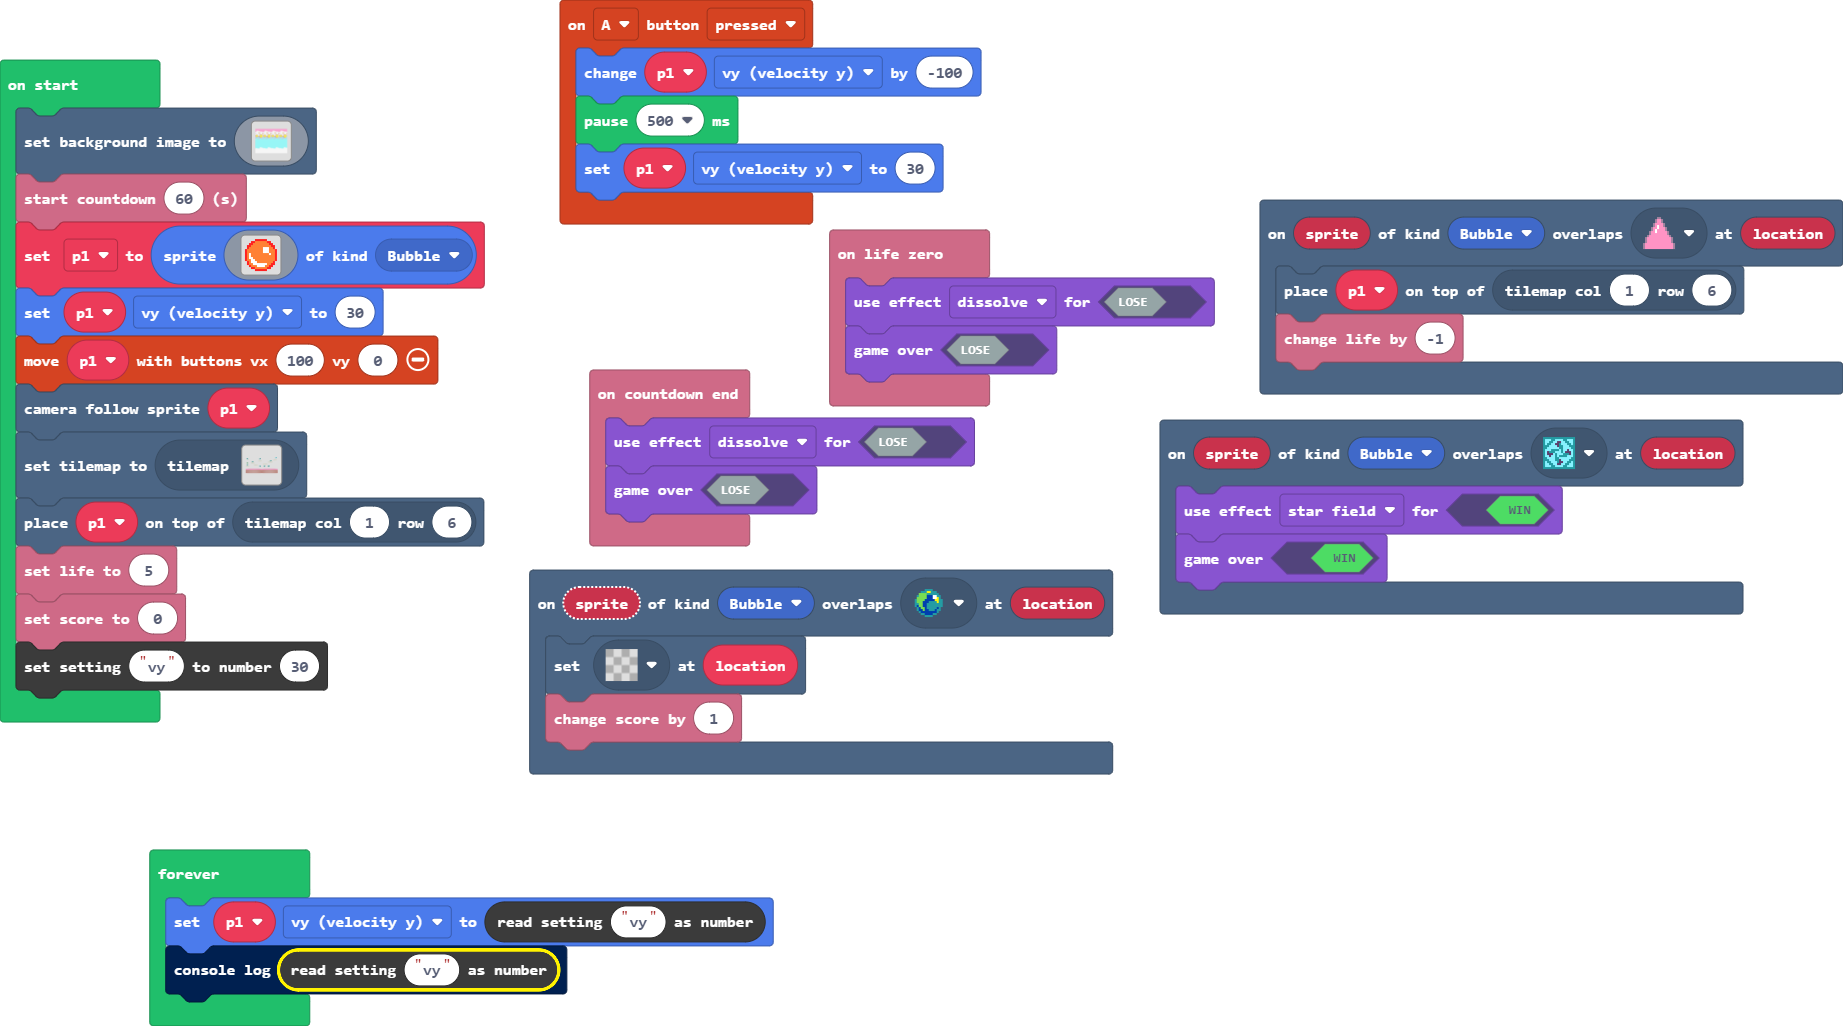
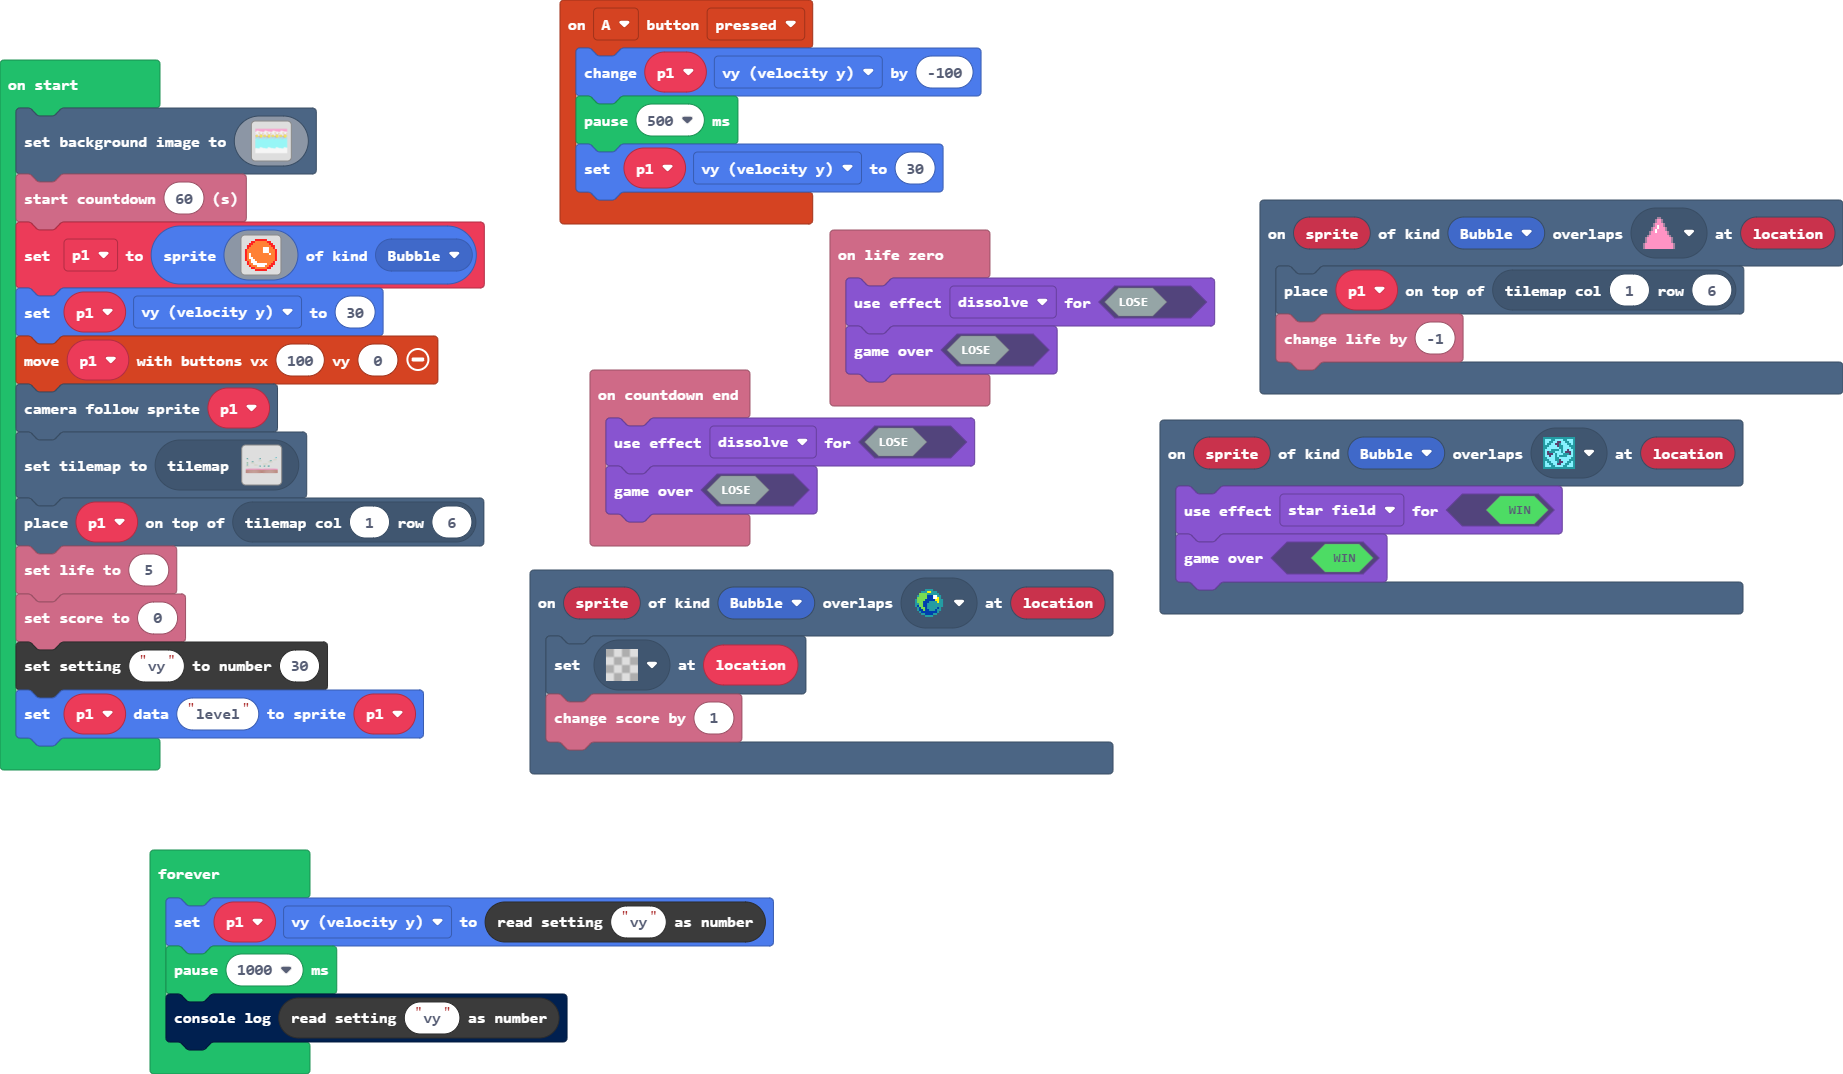
Update pxt.json, main.blocks, main.ts

Changed region(s): [[0.2784, 0.0, 1.0, 0.7797], [0.0, 0.0312, 0.2784, 0.7173], [0.0619, 0.7797, 0.433, 0.9981]]

diff --git a/main.ts b/main.ts
@@ -38,7 +38,9 @@ tiles.placeOnTile(p1, tiles.getTileLocation(1, 6))
 info.setLife(5)
 info.setScore(0)
 blockSettings.writeNumber("vy", 30)
+sprites.setDataSprite(p1, "level", p1)
 forever(function () {
     p1.vy = blockSettings.readNumber("vy")
+    pause(1000)
     console.log(blockSettings.readNumber("vy"))
 })
